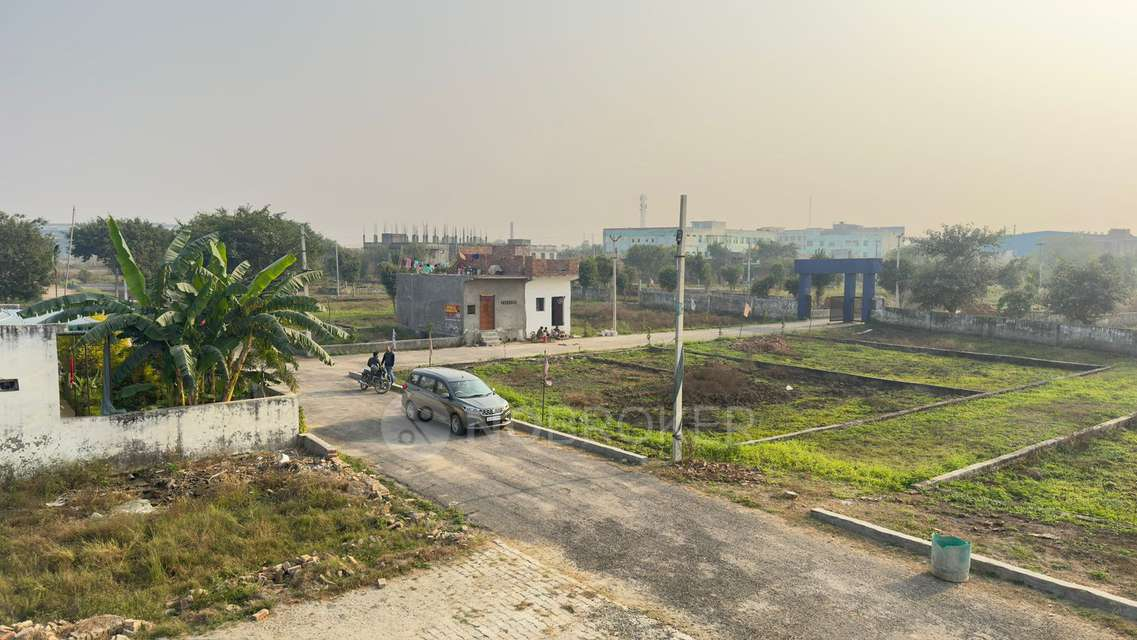
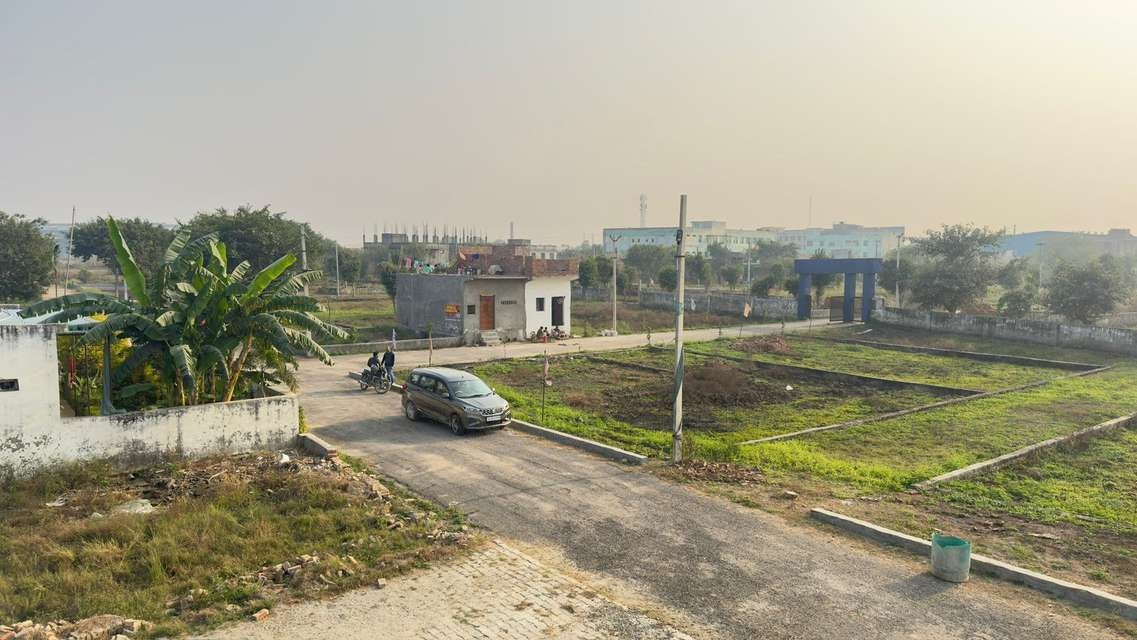
Update sold section photos with new images

Changed region(s): [[0.3386, 0.5938, 0.6772, 0.7188]]

diff --git a/src/components/RecentlySold.jsx b/src/components/RecentlySold.jsx
@@ -14,14 +14,14 @@ const fallbackSold = [
     title: 'Residential Plot',
     location: 'Koel Nagar, Rourkela',
     sqft: 1600,
-    photos: ['/plots/sold/1.webp']
+    photos: ['/plots/sold/1.jpg']
   },
   {
     id: 2,
     title: 'Farm House Land',
     location: 'Vedvyas, Rourkela',
     sqft: 3200,
-    photos: ['/plots/sold/2.jpg']
+    photos: ['/plots/sold/2.webp']
   },
   {
     id: 3,
